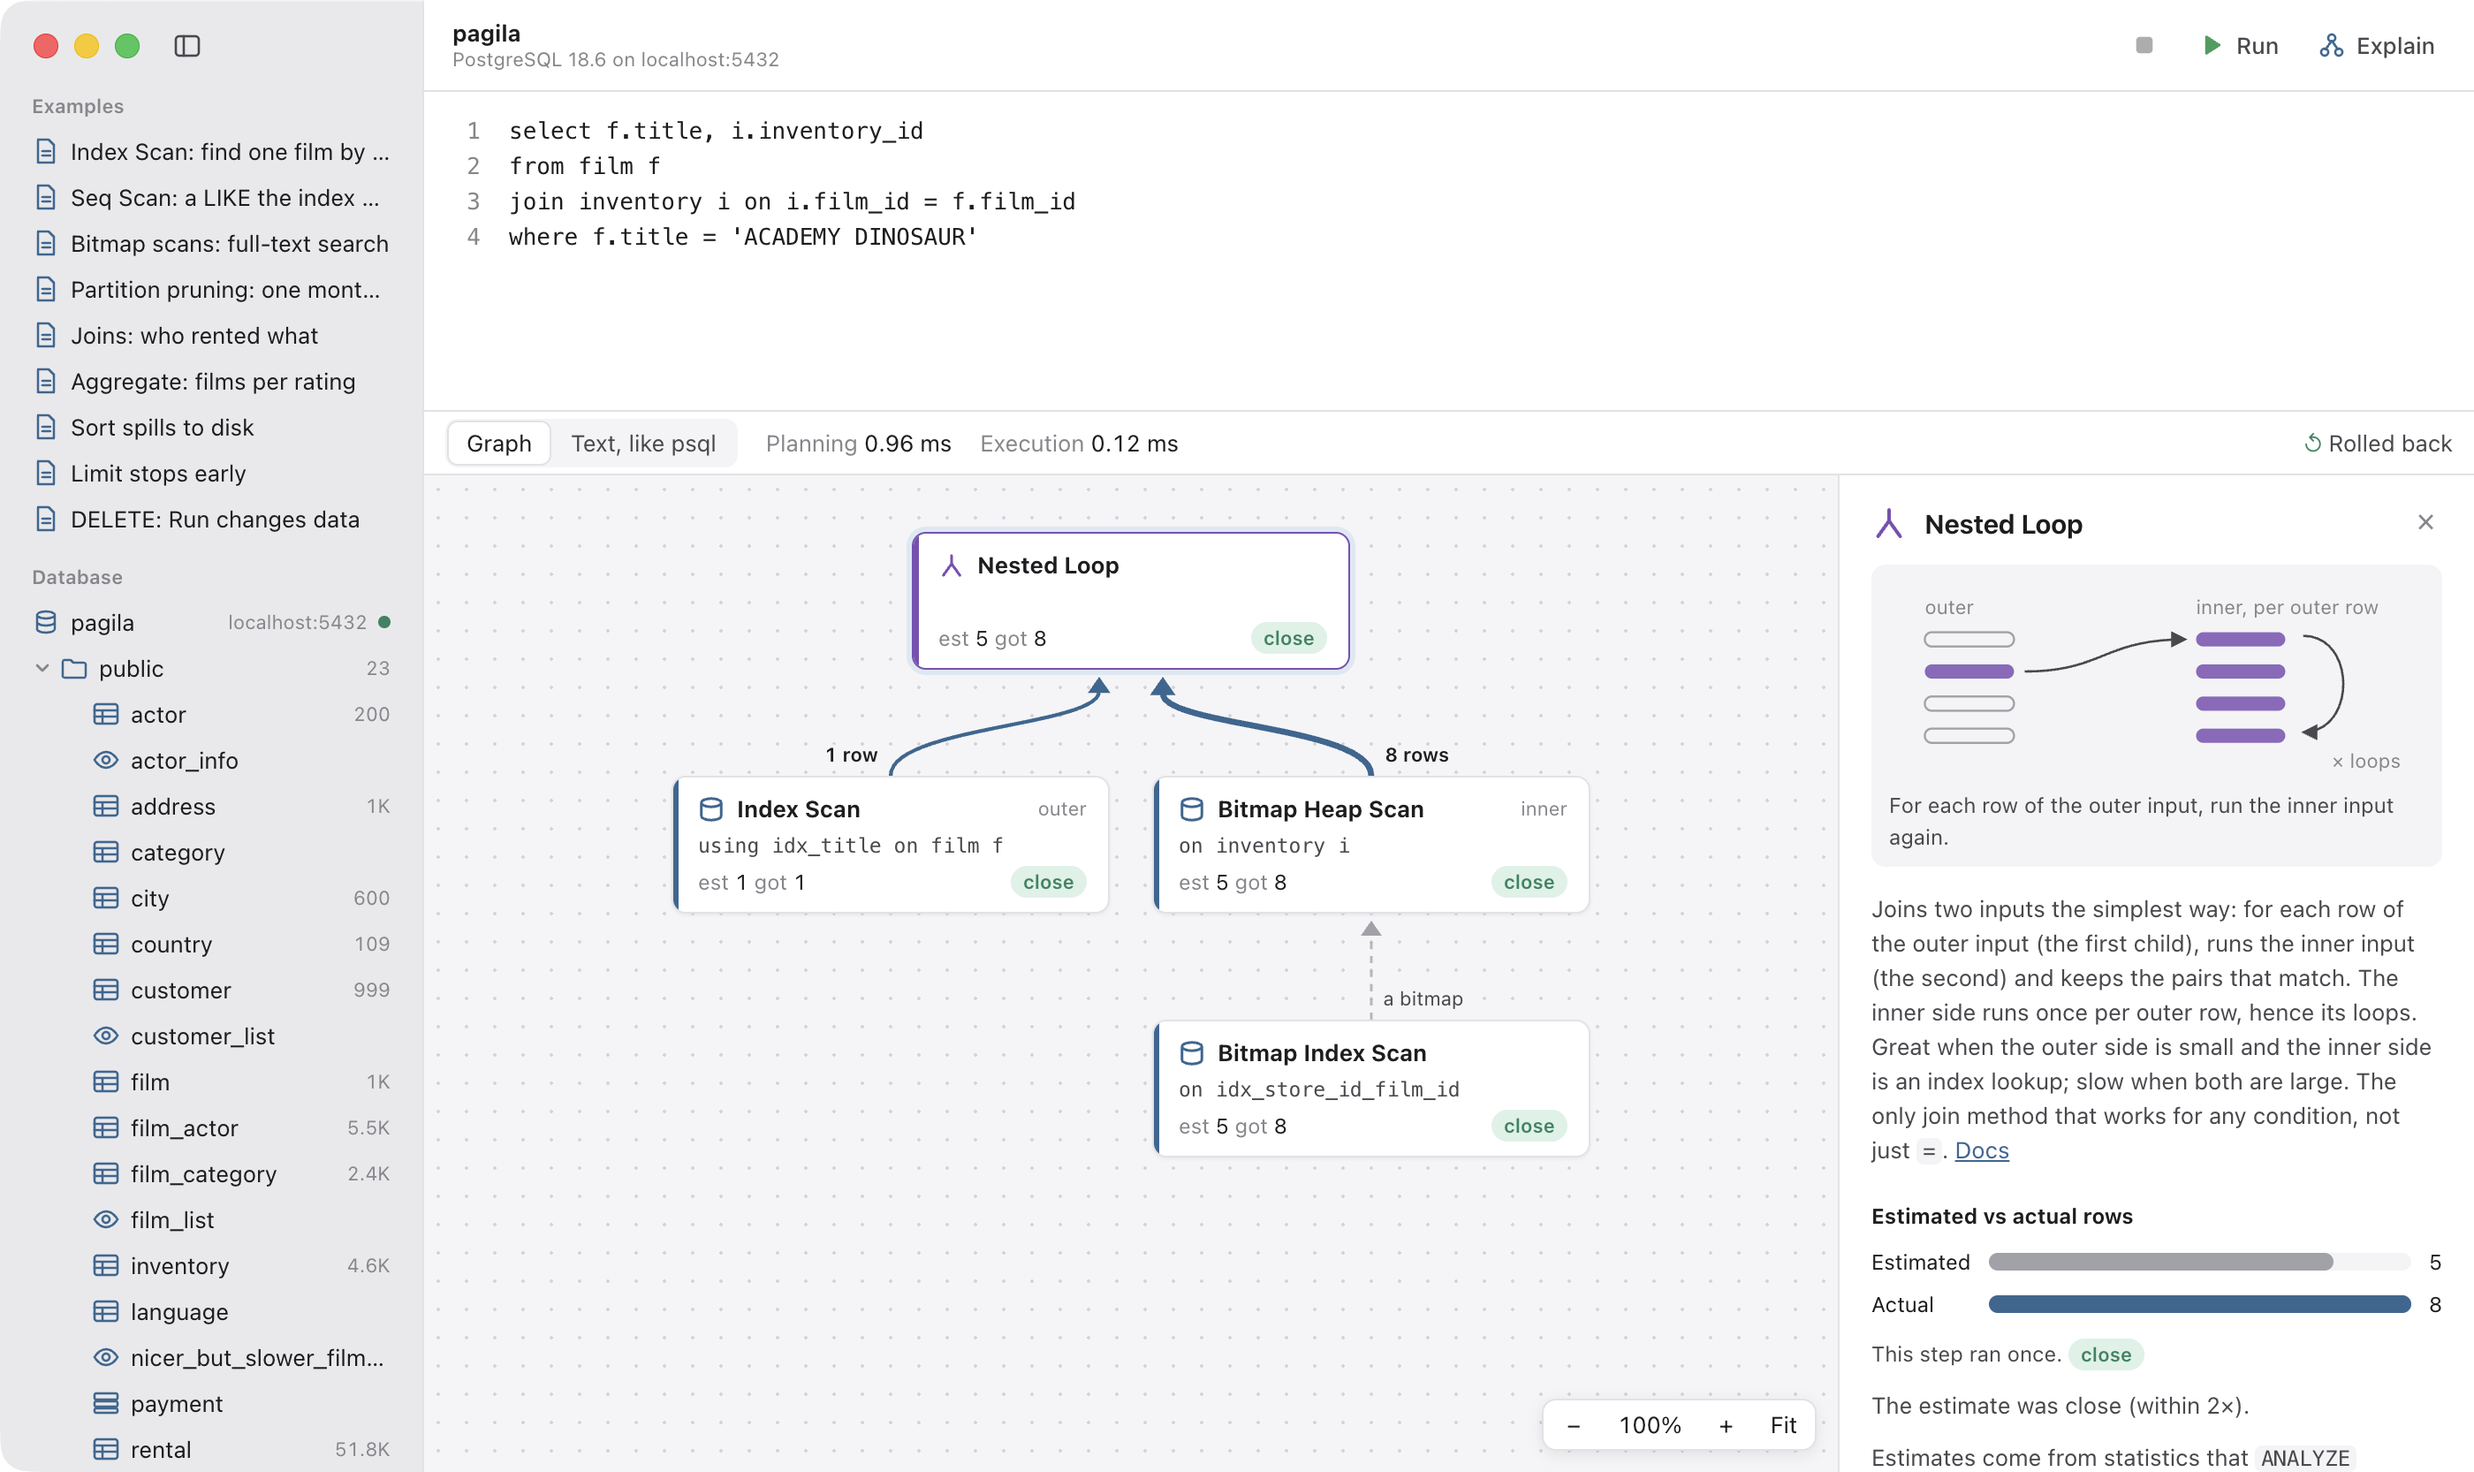
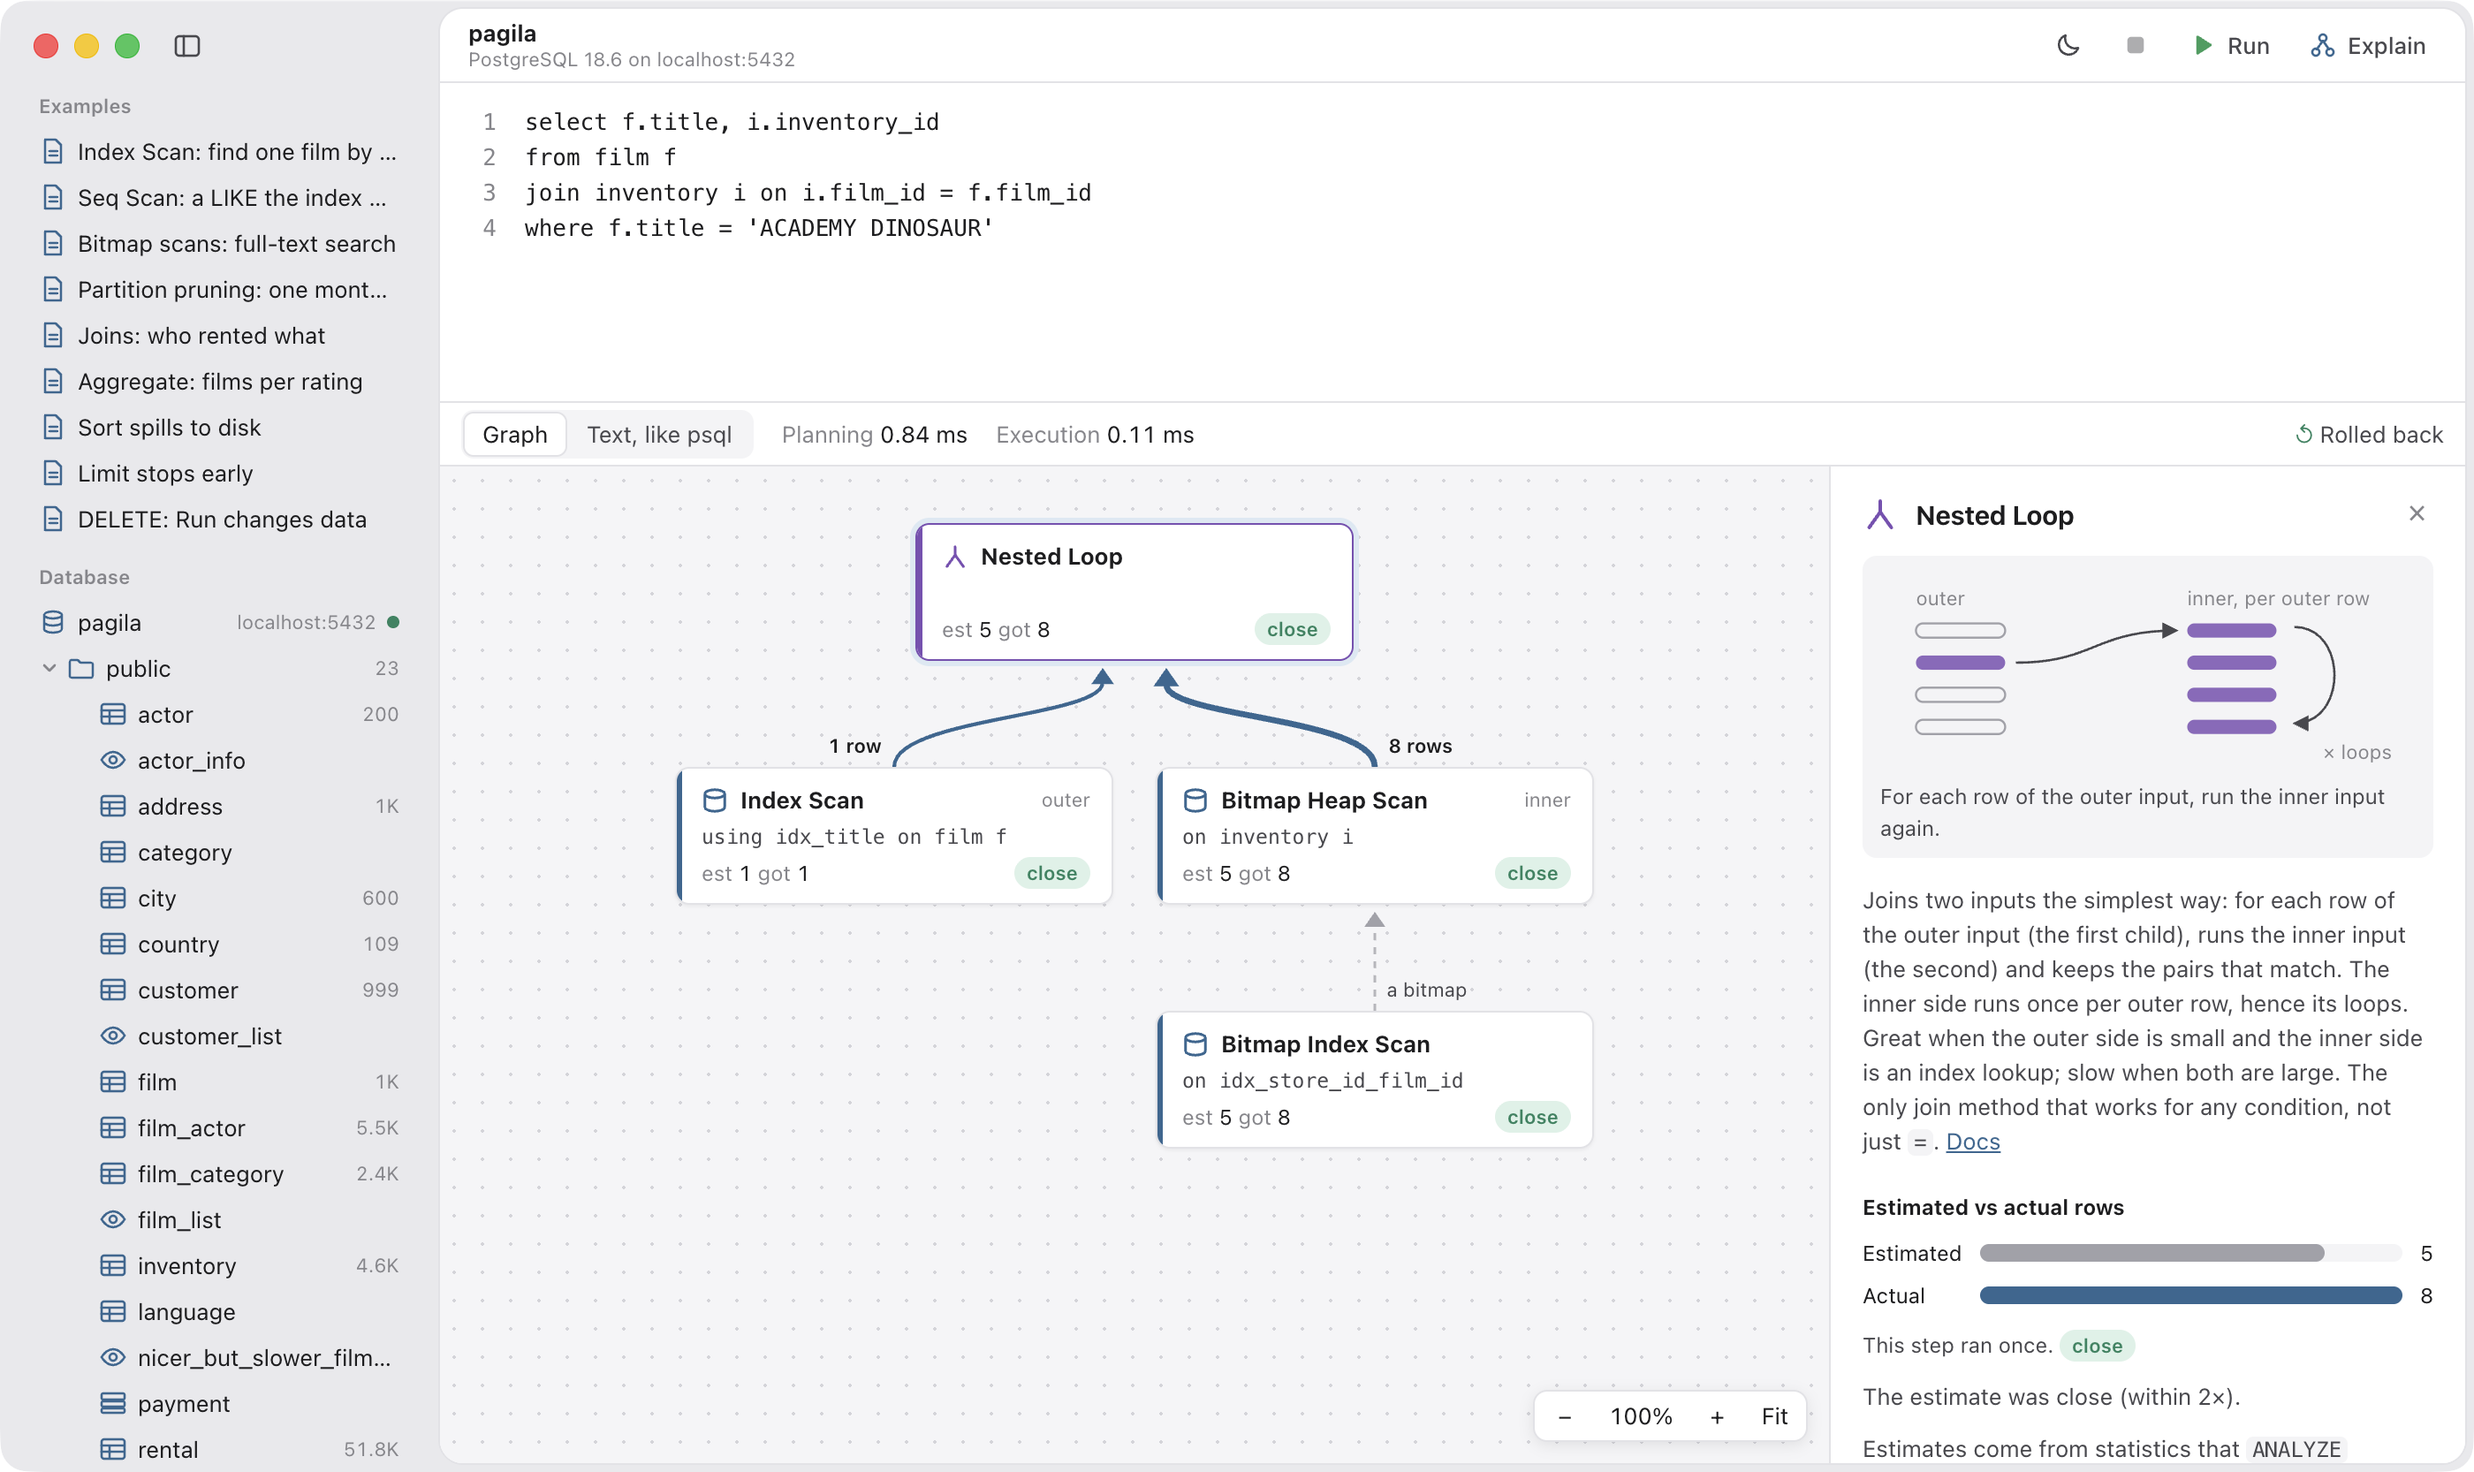
feat: pick light or dark in the app, and bring back the main card
A toolbar button switches between light and dark. The main process sets
nativeTheme, so the page, the window's controls and its background change
together, and keeps the choice in a file for the next launch.

The main column is a bordered card again, set 4px in from the window. Its
toolbar is sized so it stays centered on the traffic lights' line, and its
14px corners follow the window's (about 18pt on macOS 26, less the frame).

diff --git a/src/web/styles.css b/src/web/styles.css
@@ -37,8 +37,13 @@
   /* The band the traffic lights sit centered in (trafficLightPosition in
      src/desktop/main.ts derives it): its height, and where the page's own
      controls start. In a browser tab they start at the edge. */
-  --toolbar-height: 52px;
+  --titlebar-height: 52px;
   --chrome-left: 12px;
+  /* The main column is a card set --frame in from the window's edges. Its
+     toolbar, inside the card's 1px border, is centered on the same line as
+     the traffic lights. */
+  --frame: 4px;
+  --toolbar-height: calc(var(--titlebar-height) - 2 * (var(--frame) + 1px));
 }
 
 html.desktop {
@@ -199,13 +204,14 @@ kbd {
 }
 
 /* Layout: the sidebar, then the main column: toolbar, editor, splitter and
-   the output taking the rest. Both reach the window's edges, as in Finder and
-   Xcode, so no inner corner has to follow the window's rounded ones. */
+   the output taking the rest. */
 
 .app {
   display: grid;
   /* minmax(0, ...) lets a wide results grid scroll instead of widening the page. */
   grid-template-columns: 240px minmax(0, 1fr);
+  gap: var(--frame);
+  padding: var(--frame);
   height: 100%;
 }
 
@@ -222,6 +228,11 @@ kbd {
   flex-direction: column;
   min-height: 0;
   background: var(--surface);
+  border: 1px solid var(--line);
+  /* The window's corner (about 18pt on macOS 26) less the frame, so the two
+     curves stay parallel. */
+  border-radius: 14px;
+  overflow: hidden;
 }
 
 /* The toolbar doubles as the window's title bar: dragging it moves the window.
@@ -250,19 +261,19 @@ kbd {
    open or not, so it never moves. Its icon, not its 8px of hover padding,
    starts where the band does. It is drawn over the window, and with the
    sidebar hidden the toolbar makes room for it: the button ends 24px past
-   --chrome-left, then comes the toolbar's 12px gap. It comes after the toolbar
-   in the page, so its no-drag region wins over the toolbar's drag one:
-   Electron applies them in order. */
+   --chrome-left, then comes the toolbar's 12px gap, counted from the card's
+   inner edge. It comes after the toolbar in the page, so its no-drag region
+   wins over the toolbar's drag one: Electron applies them in order. */
 .sidebar-toggle {
   position: fixed;
-  top: calc(var(--toolbar-height) / 2);
+  top: calc(var(--titlebar-height) / 2);
   left: calc(var(--chrome-left) - 8px);
   transform: translateY(-50%);
   -webkit-app-region: no-drag;
 }
 
 .sidebar-closed .toolbar {
-  padding-left: calc(var(--chrome-left) + 36px);
+  padding-left: calc(var(--chrome-left) + 36px - var(--frame) - 1px);
 }
 
 .title {
@@ -334,12 +345,12 @@ button.explain .icon {
   flex-direction: column;
   min-height: 0;
   background: var(--sidebar);
-  border-right: 1px solid var(--line);
 }
 
+/* Down to where the traffic lights' band ends; the frame is above it. */
 .titlebar {
   flex: none;
-  height: var(--toolbar-height);
+  height: calc(var(--titlebar-height) - var(--frame));
 }
 
 .sidebar-scroll {
@@ -1359,7 +1370,7 @@ figcaption {
   display: flex;
   justify-content: center;
   align-items: flex-start;
-  padding-top: var(--toolbar-height);
+  padding-top: var(--titlebar-height);
   background: rgb(0 0 0 / 0.18);
 }
 

diff --git a/src/web/App.tsx b/src/web/App.tsx
@@ -1,4 +1,4 @@
-import { useCallback, useEffect, useRef, useState } from "react";
+import { useCallback, useEffect, useRef, useState, useSyncExternalStore } from "react";
 import type {
   DbError,
   DesktopBridge,
@@ -9,7 +9,7 @@ import type {
 } from "../contracts/ipc";
 import { ConnectionSheet } from "./ConnectionSheet";
 import { examples } from "./examples";
-import { PageIcon, PlanIcon, PlayIcon, SidebarIcon, StopIcon } from "./icons";
+import { MoonIcon, PageIcon, PlanIcon, PlayIcon, SidebarIcon, StopIcon, SunIcon } from "./icons";
 import { PlanView } from "./PlanView";
 import { Sidebar } from "./Sidebar";
 import { sqlstateClass, sqlstateDocs } from "./sqlstate";
@@ -26,6 +26,14 @@ type Action = "query" | "explain";
 const isMac = navigator.platform.startsWith("Mac");
 const mod = isMac ? "⌘" : "Ctrl+";
 
+// Whether the page is dark: macOS's appearance, or the one picked in the app
+// (the main process sets it, and the page sees it as prefers-color-scheme).
+const darkQuery = matchMedia("(prefers-color-scheme: dark)");
+const onDarkChange = (change: () => void) => {
+  darkQuery.addEventListener("change", change);
+  return () => darkQuery.removeEventListener("change", change);
+};
+
 export function App() {
   const bridge = window.desktopBridge;
   // Starts pending: the app checks the connection as soon as it opens.
@@ -40,6 +48,7 @@ export function App() {
   const [sidebarOpen, setSidebarOpen] = useState(true);
   const [sheetOpen, setSheetOpen] = useState(false);
   const [editorHeight, setEditorHeight] = useState(180);
+  const dark = useSyncExternalStore(onDarkChange, () => darkQuery.matches);
 
   const checkConnection = useCallback(() => {
     void bridge
@@ -131,6 +140,16 @@ export function App() {
         <header className="toolbar">
           <Title available={bridge !== undefined} ping={ping} />
           <div className="toolbar-group">
+            {bridge && (
+              <button
+                className="tool"
+                onClick={() => void bridge.setTheme(dark ? "light" : "dark")}
+                title={`Switch to the ${dark ? "light" : "dark"} appearance`}
+                aria-label={dark ? "Light appearance" : "Dark appearance"}
+              >
+                {dark ? <SunIcon /> : <MoonIcon />}
+              </button>
+            )}
             <button
               className="tool"
               disabled={pending === null || canceling}

diff --git a/tests/e2e/app.spec.ts b/tests/e2e/app.spec.ts
@@ -1,4 +1,4 @@
-import { mkdtemp, rm } from "node:fs/promises";
+import { mkdtemp, readFile, rm } from "node:fs/promises";
 import { tmpdir } from "node:os";
 import { join } from "node:path";
 import {
@@ -170,7 +170,8 @@ test("lines the toolbar up with the traffic lights", async () => {
     // The icon starts at the band's edge; the button has 8px of padding.
     expect(box.x + 8).toBe(band.x);
     expect(box.y + box.height / 2).toBe(band.height / 2);
-    expect(await page.locator(".toolbar").boundingBox()).toMatchObject({ y: 0, height: 52 });
+    const toolbar = (await page.locator(".toolbar").boundingBox())!;
+    expect(toolbar.y + toolbar.height / 2).toBe(band.height / 2);
     if (open) await toggle.click();
   }
   await expect(page.locator(".sidebar")).toBeHidden();
@@ -191,6 +192,25 @@ test("fills uncovered window with the main column's color in both themes", async
     );
     const [r, g, b] = [1, 3, 5].map((i) => parseInt(window.slice(i, i + 2), 16));
     expect(surface).toBe(`rgb(${r}, ${g}, ${b})`);
+  }
+  await app.evaluate(({ nativeTheme }) => {
+    nativeTheme.themeSource = "system";
+  });
+});
+
+test("switches the appearance from the toolbar and remembers it", async () => {
+  await page.emulateMedia({ colorScheme: null });
+  await app.evaluate(({ nativeTheme }) => {
+    nativeTheme.themeSource = "light";
+  });
+  for (const theme of ["dark", "light"] as const) {
+    await page
+      .getByRole("button", { name: `${theme === "dark" ? "Dark" : "Light"} appearance` })
+      .click();
+    await expect
+      .poll(() => page.evaluate(() => matchMedia("(prefers-color-scheme: dark)").matches))
+      .toBe(theme === "dark");
+    expect(await readFile(join(userData, "theme"), "utf8")).toBe(theme);
   }
   await app.evaluate(({ nativeTheme }) => {
     nativeTheme.themeSource = "system";

diff --git a/src/desktop/main.ts b/src/desktop/main.ts
@@ -22,6 +22,7 @@ import {
   useDatabase,
 } from "../backend/database";
 import { saveConnection, savedConnection } from "./connection";
+import { restoreTheme, setTheme } from "./theme";
 
 const rendererFile = join(__dirname, "../renderer/index.html");
 const devServerUrl = !app.isPackaged ? process.env["ELECTRON_RENDERER_URL"] : undefined;
@@ -144,6 +145,10 @@ handle("db:rows", (resultId: unknown, offset: unknown, count: unknown) => {
 });
 handle("db:explain", (sql: unknown) => explainDatabase(text(sql)));
 handle("db:cancel", () => cancelQuery());
+handle("app:theme", (theme: unknown) => {
+  if (theme !== "light" && theme !== "dark") throw new Error("Invalid theme.");
+  setTheme(theme);
+});
 
 void app.whenReady().then(() => {
   // safeStorage only works once the app is ready, and the window's first ping
@@ -154,6 +159,8 @@ void app.whenReady().then(() => {
   session.defaultSession.setPermissionCheckHandler(() => false);
   const saved = savedConnection();
   if (saved) useDatabase(saved);
+  // Before the window, so it opens in the picked theme instead of flashing.
+  restoreTheme();
   createWindow();
 
   // macOS: clicking the dock icon with no windows open should open one again.

diff --git a/src/desktop/theme.ts b/src/desktop/theme.ts
@@ -1,0 +1,27 @@
+import { readFileSync, writeFileSync } from "node:fs";
+import { join } from "node:path";
+import { app, nativeTheme } from "electron";
+import type { Theme } from "../contracts/ipc";
+
+// Light or dark, once picked in the app instead of following macOS. Setting
+// nativeTheme switches the page's prefers-color-scheme and the window's own
+// controls together. A plain file, so the next launch opens in it.
+const file = () => join(app.getPath("userData"), "theme");
+
+export function restoreTheme(): void {
+  try {
+    const saved = readFileSync(file(), "utf8");
+    if (saved === "light" || saved === "dark") nativeTheme.themeSource = saved;
+  } catch {
+    // Never picked: follow macOS.
+  }
+}
+
+export function setTheme(theme: Theme): void {
+  nativeTheme.themeSource = theme;
+  try {
+    writeFileSync(file(), theme);
+  } catch {
+    console.warn("Could not remember the theme.");
+  }
+}

diff --git a/src/web/icons.tsx b/src/web/icons.tsx
@@ -18,6 +18,19 @@ export const SidebarIcon = () => (
   </Icon>
 );
 
+export const SunIcon = () => (
+  <Icon>
+    <circle cx="8" cy="8" r="2.8" />
+    <path d="M8 1.5v1.6M8 12.9v1.6M1.5 8h1.6M12.9 8h1.6M3.4 3.4l1.1 1.1M11.5 11.5l1.1 1.1M3.4 12.6l1.1-1.1M11.5 4.5l1.1-1.1" />
+  </Icon>
+);
+
+export const MoonIcon = () => (
+  <Icon>
+    <path d="M13.5 9.6A5.6 5.6 0 0 1 6.4 2.5a5.6 5.6 0 1 0 7.1 7.1z" />
+  </Icon>
+);
+
 export const PlayIcon = () => (
   <Icon>
     <path d="M5 3.2v9.6L12.5 8z" className="filled" />

diff --git a/src/contracts/ipc.ts b/src/contracts/ipc.ts
@@ -17,7 +17,11 @@ export interface DesktopBridge {
   explain(sql: string): Promise<ExplainResult>;
   // Stops the running query, if any. Its `query` call then resolves as canceled.
   cancel(): Promise<void>;
+  // Light or dark instead of following macOS, remembered for the next launch.
+  setTheme(theme: Theme): Promise<void>;
 }
+
+export type Theme = "light" | "dark";
 
 export type PingResult =
   // `server` is host:port, from the connection string.

diff --git a/src/desktop/preload.ts b/src/desktop/preload.ts
@@ -15,6 +15,7 @@ const desktopBridge: DesktopBridge = {
   rows: (resultId, offset, count) => ipcRenderer.invoke("db:rows", resultId, offset, count),
   explain: (sql) => ipcRenderer.invoke("db:explain", sql),
   cancel: () => ipcRenderer.invoke("db:cancel"),
+  setTheme: (theme) => ipcRenderer.invoke("app:theme", theme),
 };
 
 // The preload runs before the page, with access to Node and Electron, but the
